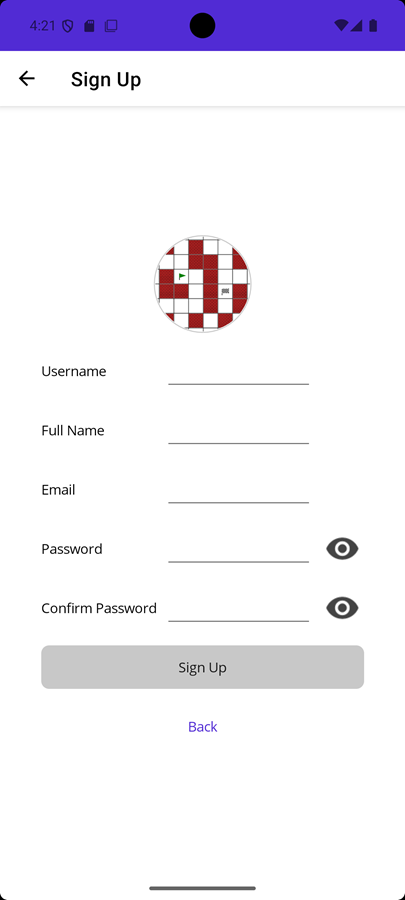
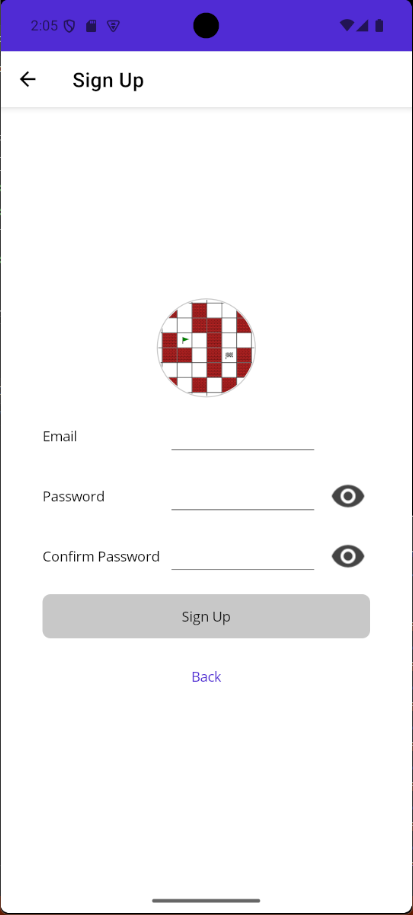
Update README and screenshots for simplified simplified sign-up form

diff --git a/src/rust/maze_web_server/README.md b/src/rust/maze_web_server/README.md
@@ -140,7 +140,7 @@ The following endpoints manage user identity:
 
 | Method | Path | Auth required | Description |
 |:-------|:-----|:--------------|:------------|
-| `POST` | `/api/v1/signup` | None | Register a new (non-admin) user account |
+| `POST` | `/api/v1/signup` | None | Register a new (non-admin) user account; requires email and password only — username is auto-generated from the email local part |
 | `POST` | `/api/v1/login` | None | Sign in; returns a bearer token |
 | `POST` | `/api/v1/logout` | Bearer | Invalidate the current bearer token |
 | `GET` | `/api/v1/users/me` | Either | Return the signed-in user's profile |
